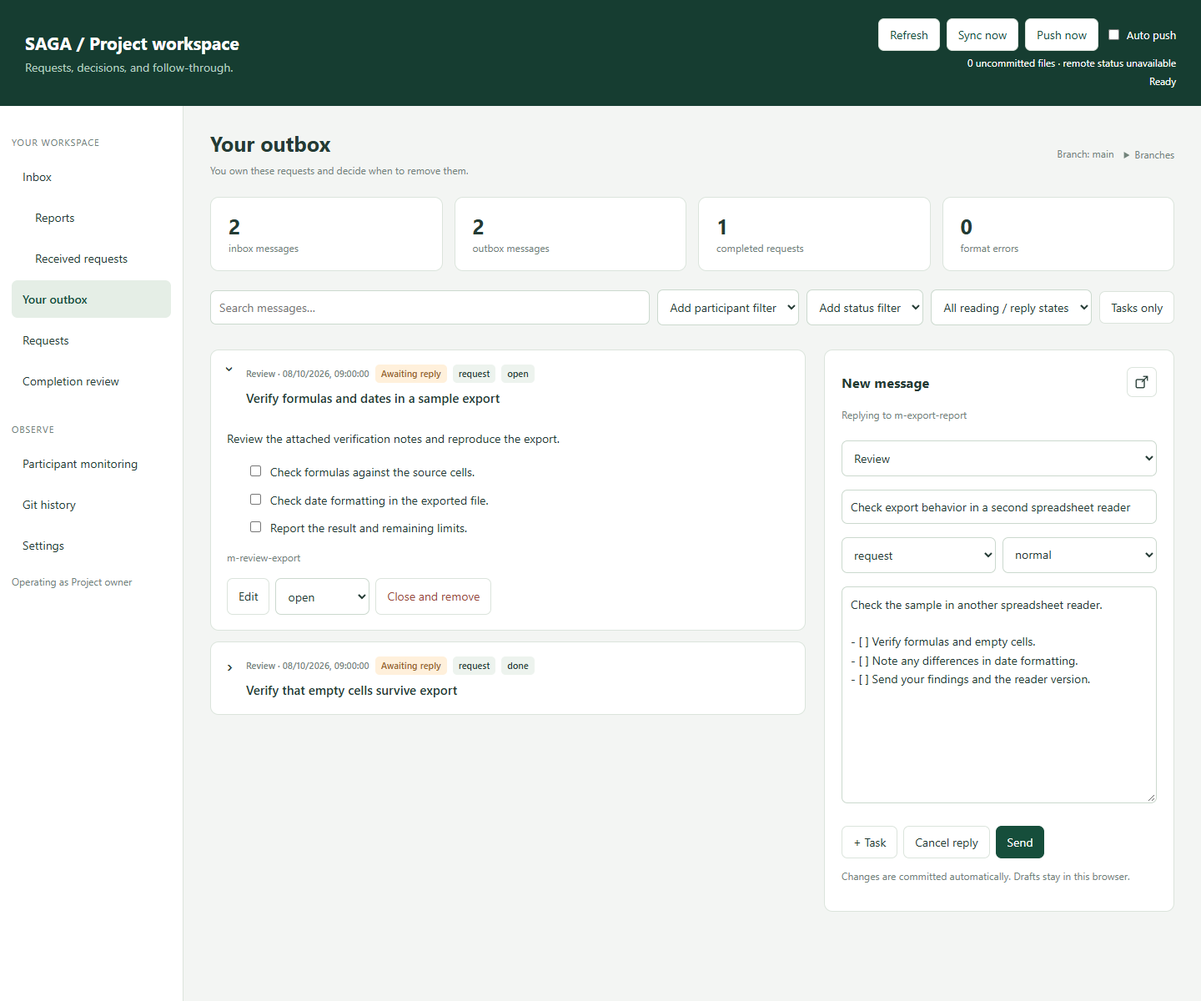
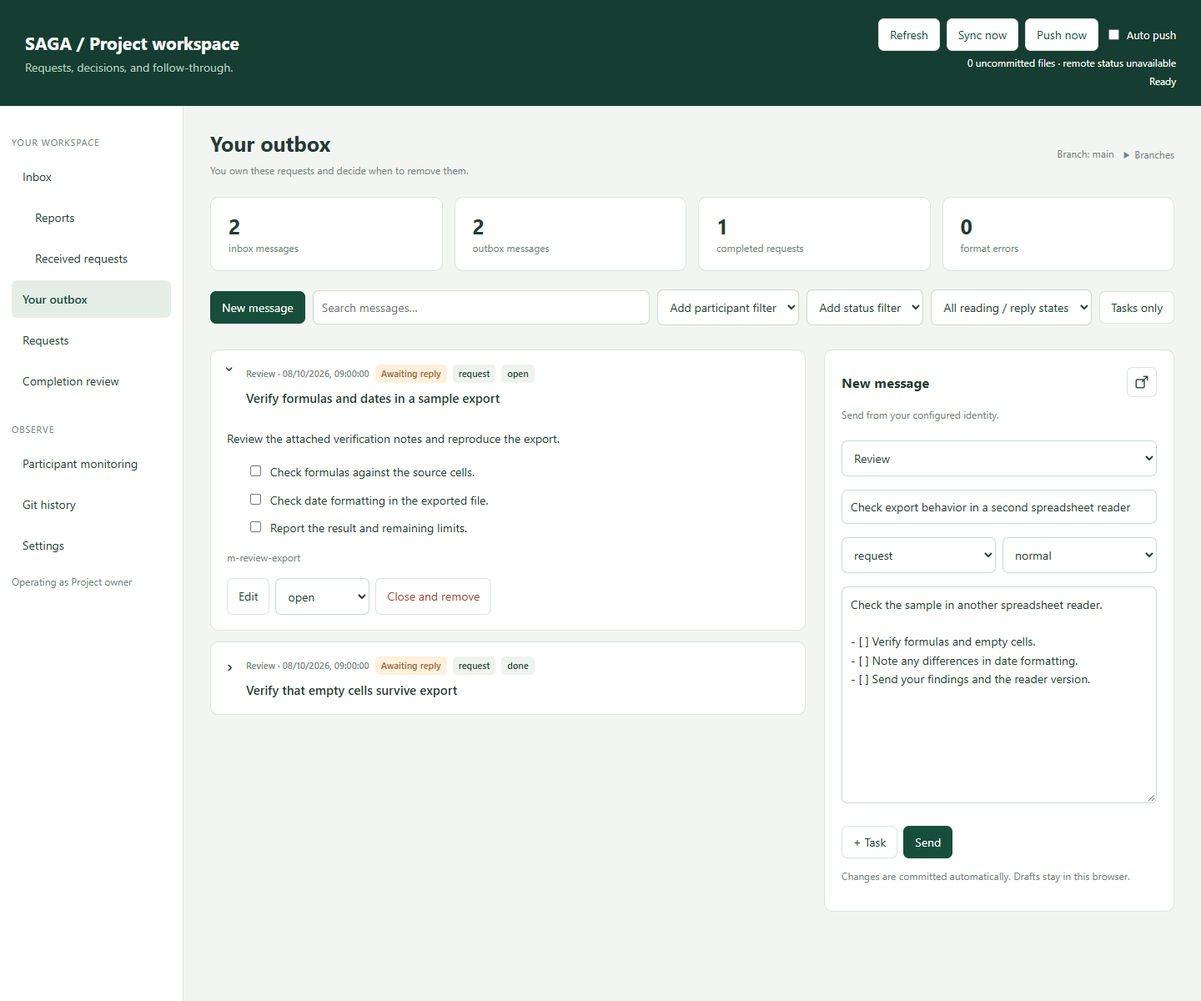
Add inline replies and nonblocking message publication

Changed region(s): [[0.75, 0.8017, 0.875, 0.8633], [0.1562, 0.2775, 0.2812, 0.3392], [0.7188, 0.4008, 0.8125, 0.4317]]

diff --git a/src/dashboard.html b/src/dashboard.html
@@ -15,7 +15,7 @@ header button{color:var(--ink)}
 <header><div><h1 id="workspace">SAGA</h1><p>Requests, decisions, and follow-through.</p></div><div class="header-controls"><div class="header-actions"><button id="refreshButton">Refresh</button><button id="syncButton">Sync now</button><button id="pushHeader">Push now</button><label id="gitControls" hidden><input id="autoPushHeader" type="checkbox"> Auto push</label></div><div id="gitStatus" class="sync" aria-live="polite"></div><div id="sync" class="sync" role="status">Connecting…</div></div></header>
 <div class="shell"><aside id="navigation"><p class="caption">Your workspace</p><button data-view="inbox">Inbox</button><button data-inbox="report" style="padding-left:28px">Reports</button><button data-inbox="requests" style="padding-left:28px">Received requests</button><button data-view="outbox">Your outbox</button><button data-view="requests">Requests</button><button data-view="approvals">Completion review</button><p class="caption" style="margin-top:28px">Observe</p><button data-view="monitor">Participant monitoring</button><button data-view="history">Git history</button><button data-view="settings">Settings</button><p class="hint" id="identity"></p></aside>
 <main><div class="heading"><div><h2 id="title">Inbox</h2><div class="muted" id="subtitle"></div></div><div class="branch-position"><span id="branch" class="muted"></span><details id="branchPanel"><summary id="branchSummary">Branches</summary><div class="branch-popover"><p class="hint" id="branchRefreshHint">Compared with your current inbox.</p><button id="checkBranches">Fetch and check branches</button><div id="branchList"></div></div></details></div></div><div id="notice" class="notice" role="alert"></div><div class="stats" id="stats"></div>
-<div class="toolbar" id="toolbar"><input id="search" placeholder="Search messages…" aria-label="Search"><select id="participant" aria-label="Filter participant"></select><select id="status" aria-label="Filter status"><option value="all">All statuses</option><option>untriaged</option><option>open</option><option>in_progress</option><option>waiting</option><option>blocked</option><option>done</option></select><select id="attention" aria-label="Filter reading and replies"><option value="all">All reading / reply states</option><option value="unread">Unread</option><option value="read">Read</option><option value="unanswered">Awaiting reply</option><option value="replied">Replied</option></select><button id="taskFilter">Tasks only</button><div id="filterTags" class="filter-tags"></div></div>
+<div class="toolbar" id="toolbar"><button id="newMessage" class="primary">New message</button><input id="search" placeholder="Search messages…" aria-label="Search"><select id="participant" aria-label="Filter participant"></select><select id="status" aria-label="Filter status"><option value="all">All statuses</option><option>untriaged</option><option>open</option><option>in_progress</option><option>waiting</option><option>blocked</option><option>done</option></select><select id="attention" aria-label="Filter reading and replies"><option value="all">All reading / reply states</option><option value="unread">Unread</option><option value="read">Read</option><option value="unanswered">Awaiting reply</option><option value="replied">Replied</option></select><button id="taskFilter">Tasks only</button><div id="filterTags" class="filter-tags"></div></div>
 <div class="columns" id="columns"><section id="feed"></section><section class="card compose" id="compose" inert><div id="composeHandle" class="compose-heading"><h3>New message</h3><button id="detachCompose" aria-label="Float composer" title="Float composer"><svg viewBox="0 0 24 24" width="18" height="18" aria-hidden="true" fill="none" stroke="currentColor" stroke-width="1.8"><rect x="3" y="8" width="13" height="13" rx="2"/><path d="M14 3h7v7M21 3l-9 9"/></svg></button></div><p class="hint" id="replyHint">Send from your configured identity.</p><select id="recipient" aria-label="Recipient"></select><input id="subject" placeholder="Subject" maxlength="200" aria-label="Subject"><div class="pair"><select id="kind" aria-label="Message kind"><option>request</option><option>question</option><option>decision</option><option>report</option><option>reply</option></select><select id="priority" aria-label="Priority"><option>normal</option><option>low</option><option>high</option><option>urgent</option></select></div><textarea id="message" placeholder="Write a message…&#10;&#10;- [ ] A task to follow" aria-label="Message body"></textarea><div class="actions"><button id="task">+ Task</button><button id="cancelReply" hidden>Cancel reply</button><button class="primary" id="send">Send</button></div><p class="hint" id="savePolicy"></p></section></div></main></div>
 <dialog id="fileViewer" aria-label="File preview"><div class="file-heading"><div><h3 id="fileTitle"></h3><span id="fileContext" class="hint"></span></div><button id="closeFile">Close preview</button></div><div id="fileContent" class="body"></div></dialog>
 <dialog id="editor"><h3>Edit your message</h3><p class="hint">Editing invalidates any completion receipt for an older version.</p><textarea id="editBody" aria-label="Edit message"></textarea><div class="actions"><button id="cancelEdit">Cancel</button><button id="saveEdit" class="primary">Save and commit</button></div></dialog>
@@ -25,7 +25,7 @@ header button{color:var(--ink)}
 <script src="/markdown.js"></script>
 <script src="/settings.js"></script>
 <script>
-const token='__TOKEN__', $=id=>document.getElementById(id);let state,view='inbox',busy=false,signature='',tasksOnly=false,replyTo=null,editing=null,confirmation=null,historyState=null,refreshTimer=null,pageIndex=0;const participantFilters=new Set(),statusFilters=new Set();let floating=false;
+const token='__TOKEN__', $=id=>document.getElementById(id);let state,view='inbox',busy=false,signature='',tasksOnly=false,replyTo=null,editing=null,confirmation=null,historyState=null,refreshTimer=null,pageIndex=0;const participantFilters=new Set(),statusFilters=new Set();let floating=false,composeOpen=false,sendQueue=Promise.resolve();const pendingReplies=new Set(),replyFeedback=new Map();
 const esc=s=>String(s).replace(/[&<>"']/g,c=>({'&':'&amp;','<':'&lt;','>':'&gt;','"':'&quot;',"'":'&#39;'}[c]));
 const label=id=>state.config.participants.find(p=>p.id===id)?.label||id;
 const inline=s=>esc(s).replace(/`([^`]+)`/g,'<code>$1</code>').replace(/\*\*([^*]+)\*\*/g,'<strong>$1</strong>');
@@ -40,7 +40,9 @@ function seenKey(context){return 'saga:seen:'+JSON.stringify([context.workspaceR
 function trackMessages(context){if(!context.config)return;const key=seenKey(context);try{messageRead=JSON.parse(localStorage.getItem(key+':read')||'{}');const stored=localStorage.getItem(key);messageSeen=stored?JSON.parse(stored):Object.fromEntries(context.messages.filter(r=>r.meta.to===context.config.identity).map(r=>[r.meta.id,r.sha256]));if(!stored)localStorage.setItem(key,JSON.stringify(messageSeen));}catch{messageSeen={};}}
 function hasReply(r){return state.messages.some(x=>x.meta.reply_to===r.meta.id&&x.meta.from===r.meta.to&&x.meta.to===r.meta.from&&x.meta.kind!=='receipt');}
 function isRead(r){return messageRead[r.meta.id]===r.sha256;}
-function messageCard(r,open=false,nested=false){const m=r.meta,own=m.from===state.config.identity,editable=own&&view!=='monitor',replies=nested?[]:state.messages.filter(x=>x.meta.reply_to===m.id&&x.meta.kind!=='receipt');return `<details class="card message-card" data-message-id="${esc(m.id)}" ${open?'open':''}><summary><div class="summary-content"><div class="meta-row"><span class="tag">${esc(nested||view==='monitor'?label(m.from)+' → '+label(m.to):view==='requests'?(own?'To '+label(m.to):'From '+label(m.from)):view==='inbox'?label(m.from):label(m.to))} · ${date(m.created)}</span>${m.to===state.config.identity&&messageSeen[m.id]!==r.sha256?'<span class="badge warn" data-unread>'+(messageSeen[m.id]?'Updated':'New')+'</span>':''}${m.to===state.config.identity?'<span class="badge" data-reading>'+ (isRead(r)?'Read':'Unread')+'</span>':''}${hasReply(r)?'<span class="badge" data-replied>Replied</span>':['request','question'].includes(m.kind)?'<span class="badge warn">Awaiting reply</span>':''}<span class="badge">${esc(m.kind)}</span><span class="badge">${esc(m.status.replaceAll('_',' '))}</span>${m.session?'<span class="badge">Session '+esc(m.session)+'</span>':''}${m.priority!=='normal'?'<span class="badge warn">'+esc(m.priority)+'</span>':''}</div><div class="message-title">${inline(m.title)}</div></div></summary><div class="body">${body(r.body,r,editable)}<p class="hint">${esc(m.id)}${m.reply_to?' · reply to '+esc(m.reply_to):''}</p><div class="actions">${editable?`<button data-edit="${esc(m.id)}">Edit</button><select data-status="${esc(m.id)}" aria-label="Message status">${['untriaged','open','in_progress','waiting','blocked','done'].map(s=>'<option '+(s===m.status?'selected':'')+'>'+s+'</option>').join('')}</select><button class="danger" data-close="${esc(m.id)}">Close and remove</button>`:m.to===state.config.identity&&view!=='monitor'?`<button data-reply="${esc(m.id)}">Reply</button>`:''}</div>${replies.length?'<div class="replies"><p class="caption">Replies</p>'+replies.map(x=>messageCard(x,false,true)).join('')+'</div>':''}</div></details>`;}
+function replyKey(id){return draftKey()+':reply:'+id;}
+function inlineReply(r){let text='';try{text=JSON.parse(localStorage.getItem(replyKey(r.meta.id))||'{}').text||'';}catch{}return '<form class="inline-reply" data-reply-form="'+esc(r.meta.id)+'"><label>Reply to '+esc(label(r.meta.from))+'<textarea aria-label="Reply to '+esc(r.meta.title)+'" style="display:block;width:100%;min-height:130px;resize:vertical;margin-top:8px">'+esc(text)+'</textarea></label><div class="actions"><button class="primary" type="submit" '+(pendingReplies.has(r.meta.id)?'disabled':'')+'>Send reply</button><button type="button" data-detach-reply="'+esc(r.meta.id)+'" aria-label="Detach reply" title="Detach reply">↗</button><span class="hint" data-send-status>'+esc(replyFeedback.get(r.meta.id)||'')+'</span></div></form>';}
+function messageCard(r,open=false,nested=false){const m=r.meta,own=m.from===state.config.identity,editable=own&&view!=='monitor',replies=nested?[]:state.messages.filter(x=>x.meta.reply_to===m.id&&x.meta.kind!=='receipt');return `<details class="card message-card" data-message-id="${esc(m.id)}" ${open?'open':''}><summary><div class="summary-content"><div class="meta-row"><span class="tag">${esc(nested||view==='monitor'?label(m.from)+' → '+label(m.to):view==='requests'?(own?'To '+label(m.to):'From '+label(m.from)):view==='inbox'?label(m.from):label(m.to))} · ${date(m.created)}</span>${m.to===state.config.identity&&messageSeen[m.id]!==r.sha256?'<span class="badge warn" data-unread>'+(messageSeen[m.id]?'Updated':'New')+'</span>':''}${m.to===state.config.identity?'<span class="badge" data-reading>'+ (isRead(r)?'Read':'Unread')+'</span>':''}${hasReply(r)?'<span class="badge" data-replied>Replied</span>':['request','question'].includes(m.kind)?'<span class="badge warn">Awaiting reply</span>':''}<span class="badge">${esc(m.kind)}</span><span class="badge">${esc(m.status.replaceAll('_',' '))}</span>${m.session?'<span class="badge">Session '+esc(m.session)+'</span>':''}${m.priority!=='normal'?'<span class="badge warn">'+esc(m.priority)+'</span>':''}</div><div class="message-title">${inline(m.title)}</div></div></summary><div class="body">${body(r.body,r,editable)}<p class="hint">${esc(m.id)}${m.reply_to?' · reply to '+esc(m.reply_to):''}</p><div class="actions">${editable?`<button data-edit="${esc(m.id)}">Edit</button><select data-status="${esc(m.id)}" aria-label="Message status">${['untriaged','open','in_progress','waiting','blocked','done'].map(s=>'<option '+(s===m.status?'selected':'')+'>'+s+'</option>').join('')}</select><button class="danger" data-close="${esc(m.id)}">Close and remove</button>`:m.to===state.config.identity&&view!=='monitor'?`<button data-reply="${esc(m.id)}">Reply</button>`:''}</div>${m.to===state.config.identity&&view!=='monitor'&&!nested?inlineReply(r):''}${replies.length?'<div class="replies"><p class="caption">Replies</p>'+replies.map(x=>messageCard(x,false,true)).join('')+'</div>':''}</div></details>`;}
 function matches(r){const q=$('search').value.toLowerCase();const person=view==='inbox'?r.meta.from:view==='outbox'?r.meta.to:view==='requests'?(r.meta.to===state.config.identity?r.meta.from:r.meta.to):null;const attention=$('attention').value;return (attention==='all'||attention==='read'&&r.meta.to===state.config.identity&&isRead(r)||attention==='unread'&&r.meta.to===state.config.identity&&!isRead(r)||attention==='replied'&&hasReply(r)||attention==='unanswered'&&['request','question'].includes(r.meta.kind)&&!hasReply(r))&&(!participantFilters.size||(person?participantFilters.has(person):[r.meta.from,r.meta.to].some(id=>participantFilters.has(id))))&&(!statusFilters.size||statusFilters.has(r.meta.status))&&(!tasksOnly||/^\s*(?:[-*+]|\d+[.)]) \[[ xX]\]/m.test(r.body))&&(r.meta.title+' '+r.body+' '+r.meta.id+' '+(r.meta.session||'')).toLowerCase().includes(q);}
 function renderFilters(){$('filterTags').innerHTML=[...participantFilters].map(id=>'<button data-filter="participant" data-value="'+esc(id)+'">'+esc(label(id))+' ×</button>').join('')+[...statusFilters].map(id=>'<button data-filter="status" data-value="'+esc(id)+'">'+esc(id.replaceAll('_',' '))+' ×</button>').join('')+((participantFilters.size||statusFilters.size)?'<button id="clearFilters">Clear filters</button>':'');}
 function renderBranches(){const list=[...(state.branches||[])].sort((a,b)=>Number(Boolean(b.isPrimary))-Number(Boolean(a.isPrimary))||((b.newMessages||0)+(b.updatedMessages||0))-((a.newMessages||0)+(a.updatedMessages||0))||a.name.localeCompare(b.name));const total=list.reduce((n,b)=>n+(b.newMessages||0)+(b.updatedMessages||0),0);$('branchSummary').textContent=total?total+' updates on other branches':'Branches';$('branchSummary').classList.toggle('has-updates',total>0);$('branchRefreshHint').textContent=state.branchRefresh?.error?'Refresh failed: '+state.branchRefresh.error:state.branchRefresh?.last?'Last remote check: '+new Date(state.branchRefresh.last).toLocaleString('en-GB'):'Remote results reflect the last fetch. Compared with your current inbox.';$('branchList').innerHTML=list.map(b=>'<div class="branch-row"><span><strong>'+esc(b.name)+'</strong> · '+(b.error?esc(b.error):b.newMessages+' new · '+b.updatedMessages+' updated')+'</span><button data-switch-branch="'+esc(b.ref)+'" '+(b.error?'disabled':'')+'>Switch</button></div>').join('')||'<p class="hint">No other discovered mailbox branches.</p>';}
@@ -54,7 +56,7 @@ function render(){
  choices('participant',c.participants,true);$('participant').options[0].textContent='Add participant filter';$('status').options[0].textContent='Add status filter';renderFilters();renderBranches();choices('recipient',c.participants.filter(p=>p.id!==me));const outgoing=state.messages.filter(r=>r.meta.from===me&&r.meta.kind!=='receipt'),incoming=state.messages.filter(r=>r.meta.to===me&&r.meta.kind!=='receipt'),ready=state.candidates.filter(r=>r.eligible);
  document.querySelector('[data-view="monitor"]').hidden=!c.showMonitoring;
  $('stats').innerHTML=[[incoming.length,'inbox messages'],[outgoing.length,'outbox messages'],[ready.length,'completed requests'],[state.errors.length,'format errors']].map(([n,t])=>`<div class="stat"><strong>${n}</strong><span class="muted">${t}</span></div>`).join('');
- const showCompose=['inbox','outbox','requests'].includes(view);$('compose').hidden=!showCompose;$('columns').classList.toggle('wide',!showCompose||floating);$('toolbar').hidden=!['inbox','outbox','requests','monitor'].includes(view);$('taskFilter').classList.toggle('primary',tasksOnly);
+ const showCompose=composeOpen&&['inbox','outbox','requests'].includes(view);$('compose').hidden=!showCompose;$('columns').classList.toggle('wide',!showCompose||floating);$('toolbar').hidden=!['inbox','outbox','requests','monitor'].includes(view);$('taskFilter').classList.toggle('primary',tasksOnly);
  if(state.errors.length)notice(state.errors.join('\n'));
  if(view==='settings'){$('feed').innerHTML=renderSettings(c);return;}
  if(view==='approvals'){$('feed').innerHTML='<p class="hint">Cleanup policy: '+esc(c.cleanup)+'. Each receipt includes the agent’s completion summary.</p>'+state.candidates.map(a=>`<details class="card" open><summary><span class="tag">${esc(label(a.receipt.meta.from))} · ${date(a.receipt.meta.created)}</span>${inline(a.request?.meta.title||a.receipt.meta.title)} <span class="badge ${a.eligible?'':'warn'}">${a.eligible?'Ready for cleanup':esc(a.reason)}</span></summary><div class="body"><p class="caption">Completion summary</p>${body(a.receipt.body)}${a.request?'<details><summary>Original request</summary>'+body(a.request.body)+'</details>':''}<div class="actions">${a.eligible&&c.cleanup!=='off'?'<button class="primary" data-approve="'+esc(a.receipt.meta.id)+'">Approve and clean up</button>':''}<button data-dismiss="${esc(a.receipt.meta.id)}">Dismiss receipt</button></div></div></details>`).join('');if(!state.candidates.length)$('feed').innerHTML+='<div class="card empty">No completion receipts yet.</div>';return;}
@@ -64,7 +66,7 @@ function render(){
  $('feed').innerHTML=records.slice(pageIndex*c.pageSize,(pageIndex+1)*c.pageSize).map((r,i)=>messageCard(r,i<c.defaultExpanded)).join('')+(records.length>c.pageSize?'<div class="actions"><button id="previousPage" '+(pageIndex===0?'disabled':'')+'>Previous</button><span class="hint">Page '+(pageIndex+1)+' of '+pages+' · '+records.length+' messages</span><button id="nextPage" '+(pageIndex===pages-1?'disabled':'')+'>Next</button></div>':'');if(!$('feed').innerHTML)$('feed').innerHTML='<div class="card empty">No messages match this view.</div>';
 }
 function renderHistory(){if(!historyState){$('feed').innerHTML='<div class="card empty">Loading history…</div>';return;}$('feed').innerHTML=historyState.commits.map(c=>`<section class="card panel"><span class="tag">${date(c.date)} · ${esc(c.commit.slice(0,8))}</span><strong>${esc(c.title)}</strong>${c.files.map(f=>`<p class="hint">${esc(f)}</p><button data-history="${esc(c.commit)}" data-file="${esc(f)}" data-before="true">Before</button> <button data-history="${esc(c.commit)}" data-file="${esc(f)}">After</button>`).join('')}<pre id="snapshot-${esc(c.commit)}" hidden></pre></section>`).join('')||'<div class="card empty">No structured mailbox history yet.</div>';}
-async function refresh(force=false){try{const next=await api('state');const status=next.sync||{message:'Choose a repository'};$('sync').textContent=status.message+(status.last?' · '+new Date(status.last).toLocaleTimeString('en-GB'):'');$('sync').classList.toggle('error',status.state==='error');const key=next.setupRequired?JSON.stringify(next):JSON.stringify([next.branchRefresh,next.branches,next.git,next.publicationHold,next.configVersion,next.messages.map(r=>r.sha256),next.errors]);const changedIdentity=state?.config?.identity!==next.config?.identity,changedContext=state?.workspaceRoot!==next.workspaceRoot||state?.branch!==next.branch;trackMessages(next);state=next;if(changedIdentity&&next.config){$('kind').value=next.config.defaultKind;$('priority').value=next.config.defaultPriority;pageIndex=0;}if(force||key!==signature){signature=key;render();}if(next.config&&(changedIdentity||changedContext))loadDraft();}catch(e){notice(e.message);}finally{scheduleRefresh();}}
+async function refresh(force=false){try{const next=await api('state');const status=next.sync||{message:'Choose a repository'};$('sync').textContent=status.message+(status.last?' · '+new Date(status.last).toLocaleTimeString('en-GB'):'');$('sync').classList.toggle('error',status.state==='error');const key=next.setupRequired?JSON.stringify(next):JSON.stringify([next.branchRefresh,next.branches,next.git,next.publicationHold,next.configVersion,next.messages.map(r=>r.sha256),next.errors]);const changedIdentity=state?.config?.identity!==next.config?.identity,changedContext=state?.workspaceRoot!==next.workspaceRoot||state?.branch!==next.branch;trackMessages(next);state=next;if(changedIdentity&&next.config){$('kind').value=next.config.defaultKind;$('priority').value=next.config.defaultPriority;pageIndex=0;}if((force||key!==signature)&&!pendingReplies.size&&!document.activeElement?.closest('.inline-reply')){signature=key;render();}if(next.config&&(changedIdentity||changedContext))loadDraft();}catch(e){notice(e.message);}finally{scheduleRefresh();}}
 function scheduleRefresh(){clearTimeout(refreshTimer);if(state?.config?.refreshSeconds>0)refreshTimer=setTimeout(()=>{if(!busy)refresh();else scheduleRefresh();},state.config.refreshSeconds*1000);}
 async function mutate(route,data){if(busy)return false;busy=true;$('send').disabled=true;notice('');try{const result=await api(route,data);historyState=null;if(result.sync?.state==='error')notice('Saved locally. Synchronization failed: '+result.sync.message);return true;}catch(e){notice(e.message);return false;}finally{busy=false;$('send').disabled=false;await refresh(true);}}
 function confirmAction(title,text,fn){confirmation=fn;$('confirmTitle').textContent=title;$('confirmText').textContent=text;$('confirmation').showModal();}
@@ -76,7 +78,7 @@ $('filterTags').onclick=e=>{const b=e.target.closest('button');if(!b)return;if(b
 $('checkBranches').onclick=async()=>{if(busy)return;$('checkBranches').disabled=true;try{await api('branches',{fetch:true});await refresh(true);}catch(e){notice(e.message);}finally{$('checkBranches').disabled=false;}};
 document.addEventListener('click',e=>{if(!$('branchPanel').contains(e.target))$('branchPanel').open=false;});
 $('branchList').onclick=e=>{const b=e.target.closest('[data-switch-branch]');if(!b)return;confirmAction('Switch branch?','Files must be committed and pending dashboard commits published. Your draft stays attached to the current branch.',async()=>{saveDraft();if(await mutate('branch',{ref:b.dataset.switchBranch})){participantFilters.clear();statusFilters.clear();render();}});};
-$('detachCompose').onclick=()=>{floating=!floating;$('compose').classList.toggle('floating',floating);$('detachCompose').innerHTML=floating?"<svg viewBox=\"0 0 24 24\" width=\"18\" height=\"18\" aria-hidden=\"true\" fill=\"none\" stroke=\"currentColor\" stroke-width=\"1.8\"><rect x=\"3\" y=\"3\" width=\"18\" height=\"18\" rx=\"2\"/><path d=\"M14 3v18m-6-9h5m-3-3 3 3-3 3\"/></svg>":"<svg viewBox=\"0 0 24 24\" width=\"18\" height=\"18\" aria-hidden=\"true\" fill=\"none\" stroke=\"currentColor\" stroke-width=\"1.8\"><rect x=\"3\" y=\"8\" width=\"13\" height=\"13\" rx=\"2\"/><path d=\"M14 3h7v7M21 3l-9 9\"/></svg>";$('columns').classList.toggle('wide',floating||!['inbox','outbox','requests'].includes(view));$('detachCompose').setAttribute('aria-label',floating?'Dock composer':'Float composer');$('detachCompose').title=floating?'Dock composer':'Float composer';if(!floating){$('compose').style.left='';$('compose').style.top='';$('compose').style.width='';$('compose').style.height='';}};
+$('detachCompose').onclick=()=>{floating=!floating;$('compose').classList.toggle('floating',floating);$('detachCompose').innerHTML=floating?"<svg viewBox=\"0 0 24 24\" width=\"18\" height=\"18\" aria-hidden=\"true\" fill=\"none\" stroke=\"currentColor\" stroke-width=\"1.8\"><rect x=\"3\" y=\"3\" width=\"18\" height=\"18\" rx=\"2\"/><path d=\"M14 3v18m-6-9h5m-3-3 3 3-3 3\"/></svg>":"<svg viewBox=\"0 0 24 24\" width=\"18\" height=\"18\" aria-hidden=\"true\" fill=\"none\" stroke=\"currentColor\" stroke-width=\"1.8\"><rect x=\"3\" y=\"8\" width=\"13\" height=\"13\" rx=\"2\"/><path d=\"M14 3h7v7M21 3l-9 9\"/></svg>";$('columns').classList.toggle('wide',floating||!composeOpen||!['inbox','outbox','requests'].includes(view));$('detachCompose').setAttribute('aria-label',floating?'Dock composer':'Float composer');$('detachCompose').title=floating?'Dock composer':'Float composer';if(!floating){$('compose').style.left='';$('compose').style.top='';$('compose').style.width='';$('compose').style.height='';}};
 let drag;
 $('composeHandle').onpointerdown=e=>{if(!floating||e.target.closest('button')||e.button!==0)return;const box=$('compose').getBoundingClientRect();drag={x:e.clientX-box.left,y:e.clientY-box.top};$('composeHandle').setPointerCapture(e.pointerId);e.preventDefault();};
 $('composeHandle').onpointermove=e=>{if(!drag)return;const box=$('compose').getBoundingClientRect();$('compose').style.left=Math.max(0,Math.min(innerWidth-Math.min(box.width,innerWidth),e.clientX-drag.x))+'px';$('compose').style.top=Math.max(0,Math.min(innerHeight-50,e.clientY-drag.y))+'px';};
@@ -89,13 +91,19 @@ function saveDraft(){if(state?.config)localStorage.setItem(draftKey(),JSON.strin
 $('task').onclick=()=>{$('message').value+=($('message').value?'\n':'')+'- [ ] ';saveDraft();$('message').focus();};
 function clearReply(){replyTo=null;$('replyHint').textContent='Send from your configured identity.';$('cancelReply').hidden=true;}
 $('cancelReply').onclick=()=>{clearReply();saveDraft();};
-$('send').onclick=async()=>{const draft={text:$('message').value,title:$('subject').value,to:$('recipient').value,kind:$('kind').value,priority:$('priority').value,replyTo};saveDraft();const key=draftKey();localStorage.setItem(key+':last-send',JSON.stringify({...draft,savedAt:new Date().toISOString()}));const f=state.messages.find(r=>r.meta.from===state.config.identity&&r.meta.kind!=='receipt');if(await mutate('message',{to:draft.to,title:draft.title,text:draft.text,kind:draft.kind,priority:draft.priority,reply_to:draft.replyTo,version:f?.fileVersion??state.outboxVersion??null})){if($('message').value===draft.text&&$('subject').value===draft.title){$('message').value='';$('subject').value='';clearReply();localStorage.removeItem(key);}notice(state.config.autoPush?(state.git?.ahead===0?'Message published.':state.sync.state==='error'?'Message committed locally; automatic publication failed: '+state.sync.message:state.sync.message):state.config.autoCommit?'Message committed locally. Automatic push is off.':'Message saved to your outbox. Commit and push it to publish.');}};
+function savedNotice(){return state.config.autoPush||(state.config.autoPull&&state.config.syncAfterWrite)?'Saved locally. Git synchronization continues in the background.':'Saved locally. Automatic push is off.';}
+function queueMessage(draft,onSaved,onError){const context={root:state.workspaceRoot,branch:state.branch,identity:state.config.identity};const job=sendQueue.then(async()=>{const current=await api('state');if(current.workspaceRoot!==context.root||current.branch!==context.branch||current.config.identity!==context.identity)throw Error('Workspace changed. Your draft is preserved.');const result=await api('message',{to:draft.to,title:draft.title,text:draft.text,kind:draft.kind,priority:draft.priority,reply_to:draft.replyTo,version:current.outboxVersion,background:true});onSaved(result);if(result.sync?.state==='pending'){$('sync').textContent=result.sync.message;$('sync').classList.remove('error');}historyState=null;refresh();});sendQueue=job.catch(e=>{onError(e);});return job;}
+$('newMessage').onclick=()=>{composeOpen=true;render();$('message').focus();};
+$('send').onclick=()=>{const draft={text:$('message').value,title:$('subject').value,to:$('recipient').value,kind:$('kind').value,priority:$('priority').value,replyTo};if(!draft.text.trim()||!draft.title.trim()){notice('Add a subject and message.');return;}saveDraft();const key=draftKey();localStorage.setItem(key+':last-send',JSON.stringify({...draft,savedAt:new Date().toISOString()}));$('send').disabled=true;notice('Sending. You can continue writing replies.');queueMessage(draft,()=>{if($('message').value===draft.text&&$('subject').value===draft.title){$('message').value='';$('subject').value='';if(draft.replyTo){try{if(JSON.parse(localStorage.getItem(replyKey(draft.replyTo))||'{}').text===draft.text)localStorage.removeItem(replyKey(draft.replyTo));}catch{}}clearReply();localStorage.removeItem(key);}$('send').disabled=false;notice(savedNotice());},e=>{$('send').disabled=false;notice(e.message+' Your draft is preserved.');});};
+$('feed').addEventListener('input',e=>{const form=e.target.closest('[data-reply-form]');if(form)localStorage.setItem(replyKey(form.dataset.replyForm),JSON.stringify({text:form.querySelector('textarea').value}));});
+$('feed').addEventListener('submit',e=>{const form=e.target.closest('[data-reply-form]');if(!form)return;e.preventDefault();const r=state.messages.find(r=>r.meta.id===form.dataset.replyForm),field=form.querySelector('textarea'),button=form.querySelector('[type=submit]'),status=form.querySelector('[data-send-status]'),text=field.value;if(!text.trim()||button.disabled||pendingReplies.has(r.meta.id))return;pendingReplies.add(r.meta.id);const key=replyKey(r.meta.id);localStorage.setItem(key,JSON.stringify({text}));localStorage.setItem(key+':last-send',JSON.stringify({text,savedAt:new Date().toISOString()}));button.disabled=true;replyFeedback.set(r.meta.id,'Queued for sending…');status.textContent='Queued for sending…';queueMessage({text,title:('Re: '+r.meta.title).slice(0,200),to:r.meta.from,kind:'reply',priority:'normal',replyTo:r.meta.id},()=>{pendingReplies.delete(r.meta.id);button.disabled=false;if(field.value===text)field.value='';try{if(JSON.parse(localStorage.getItem(key)||'{}').text===text)localStorage.removeItem(key);}catch{}const live=document.querySelector('[data-reply-form="'+CSS.escape(r.meta.id)+'"]');if(live){live.querySelector('[type=submit]').disabled=false;if(live.querySelector('textarea').value===text)live.querySelector('textarea').value='';live.querySelector('[data-send-status]').textContent=savedNotice();}replyFeedback.set(r.meta.id,savedNotice());status.textContent=savedNotice();},err=>{pendingReplies.delete(r.meta.id);button.disabled=false;replyFeedback.set(r.meta.id,err.message+' Draft preserved.');status.textContent=err.message+' Draft preserved.';const live=document.querySelector('[data-reply-form="'+CSS.escape(r.meta.id)+'"]');if(live){live.querySelector('[type=submit]').disabled=false;live.querySelector('[data-send-status]').textContent=replyFeedback.get(r.meta.id);}});});
 
 $('feed').addEventListener('click',e=>{const summary=e.target.closest('.message-card > summary')||(e.target.closest('[data-reply]')?.closest('.message-card')?.querySelector(':scope > summary'));const card=summary?.parentElement;if(!card)return;const record=state.messages.find(r=>r.meta.id===card.dataset.messageId);if(!record||record.meta.to!==state.config.identity)return;messageRead[record.meta.id]=record.sha256;localStorage.setItem(seenKey(state)+':read',JSON.stringify(messageRead));summary.querySelector('[data-reading]').textContent='Read';messageSeen[record.meta.id]=record.sha256;localStorage.setItem(seenKey(state),JSON.stringify(messageSeen));card.querySelector(':scope > summary [data-unread]')?.remove();},true);
 $('feed').onclick=async e=>{const b=e.target.closest('button');if(!b)return;
+ if(b.dataset.detachReply){const r=state.messages.find(r=>r.meta.id===b.dataset.detachReply),form=b.closest('[data-reply-form]');if($('message').value.trim()||$('subject').value.trim()){notice('Save or send the current composer draft before detaching another reply.');return;}composeOpen=true;render();replyTo=r.meta.id;$('recipient').value=r.meta.from;$('subject').value=('Re: '+r.meta.title).slice(0,200);$('kind').value='reply';$('message').value=form.querySelector('textarea').value;$('replyHint').textContent='Replying to '+r.meta.title;$('cancelReply').hidden=false;saveDraft();if(!floating)$('detachCompose').click();$('message').focus();return;}
  if(b.dataset.edit){editing=state.messages.find(r=>r.meta.id===b.dataset.edit);$('editBody').value=editing.body;$('editor').showModal();}
  if(b.dataset.close){const r=state.messages.find(r=>r.meta.id===b.dataset.close);confirmAction('Close and remove this message?','The message will leave your outbox. Git keeps its history. No recipient receipt is required for this owner action.',()=>mutate('update',{id:r.meta.id,sha256:r.sha256,delete:true}));}
- if(b.dataset.reply){const r=state.messages.find(r=>r.meta.id===b.dataset.reply);replyTo=r.meta.id;$('recipient').value=r.meta.from;$('subject').value='Re: '+r.meta.title;$('kind').value='reply';$('replyHint').textContent='Replying to '+r.meta.id;$('cancelReply').hidden=false;saveDraft();$('message').focus();}
+ if(b.dataset.reply){const form=b.closest('.message-card').querySelector('[data-reply-form]');if(form){form.querySelector('textarea').focus();return;}composeOpen=true;render();const r=state.messages.find(r=>r.meta.id===b.dataset.reply);replyTo=r.meta.id;$('recipient').value=r.meta.from;$('subject').value='Re: '+r.meta.title;$('kind').value='reply';$('replyHint').textContent='Replying to '+r.meta.id;$('cancelReply').hidden=false;saveDraft();$('message').focus();}
  if(b.dataset.approve){const a=state.candidates.find(c=>c.receipt.meta.id===b.dataset.approve);const fn=()=>mutate('cleanup',{receiptIds:[a.receipt.meta.id],expected:{[a.receipt.meta.id]:a.request.sha256}});if(state.config.confirmCleanup)confirmAction('Approve completion and clean up?','This removes your request and consumes its matching completion receipts.',fn);else fn();}
  if(b.dataset.dismiss){const r=state.candidates.find(c=>c.receipt.meta.id===b.dataset.dismiss).receipt;const fn=()=>mutate('receipt-dismiss',{id:r.meta.id,sha256:r.sha256});if(state.config.confirmCleanup)confirmAction('Dismiss this receipt?','Only the receipt is removed. The original request stays in its owner’s outbox.',fn);else fn();}
  if(b.id==='previousPage'){pageIndex--;render();}if(b.id==='nextPage'){pageIndex++;render();}

diff --git a/README.md b/README.md
@@ -130,7 +130,7 @@ A repository Markdown link opens a read-only preview without leaving the dashboa
 
 ### Reply to a report
 
-Click **Reply** on the report. The composer selects the sender and links the answer to that message; write your response and choose **Send**. Your reply appears in **Your outbox**, while the recipient receives it through their next synchronized inbox read. You can keep the report visible while writing, or detach the composer with its expand-window icon.
+Write in the reply field directly under the report and choose **Send reply**. The recipient and original message are linked automatically. The detach icon opens that reply in a movable composer; **New message** opens a composer for a separate conversation. Your reply appears in **Your outbox**, while the recipient receives it through their next synchronized inbox read. You can keep the report visible while writing, or detach the composer with its expand-window icon.
 
 ![Reply to the researcher alongside their report](docs/screenshots/reply.png)
 
@@ -200,7 +200,7 @@ Identity, participant IDs/labels/aliases, mailbox directory, and monitoring visi
 
 **Refresh** only rereads files. **Sync now** follows your configured pull/push switches. Settings also offers explicit **Pull now** and **Push pending commits** actions. Automatic cleanup requires automatic commits so its history is retained. With manual commits, SAGA saves edits to disk and leaves committing to you.
 
-Git operations stop for staged work, dirty files, mismatched branches, or divergence. SAGA does not stash, reset, merge, or rebase automatically. Automatic push publishes after each dashboard save, including the configuration commit that enables it, regardless of the after-write pull switch. The save response waits for that publication attempt and reports any failure without losing the saved message. A push publishes all ahead commits on that branch. Publication holds in local Git config (`saga.publicationHold`, with compatibility for `dashboard.publicationHold`) remain effective independently of UI settings. Pending publication is tied to its originating branch.
+Git operations stop for staged work, dirty files, mismatched branches, or divergence. SAGA does not stash, reset, merge, or rebase automatically. Automatic push publishes after each dashboard save, including the configuration commit that enables it, regardless of the after-write pull switch. Message sends acknowledge their local save before Git publication, which continues in the background. Other writes wait for their publication attempt. Sync status reports failures separately from local persistence. A push publishes all ahead commits on that branch. Publication holds in local Git config (`saga.publicationHold`, with compatibility for `dashboard.publicationHold`) remain effective independently of UI settings. Pending publication is tied to its originating branch.
 
 ## Agent skill
 
@@ -232,7 +232,7 @@ Message bodies use standard Markdown paragraphs: soft line wrapping is ignored v
 
 Inbox cards show the sender; outbox cards show the recipient. Participant monitoring keeps both sides. Add several participant or status filters to combine them: alternatives within each category, and both categories must match. Remove individual filter chips or choose Clear filters.
 
-The composer stays alongside your inbox. Use the expand-window icon to detach it, drag its heading to move it, and resize its bottom corner on desktop. Use the dock-panel icon to restore the side panel. While it floats, the message list takes the full available width. Drafts are stored separately for each repository, branch, and operator. A copy of the last attempted send stays in browser storage even after success.
+Replies have independent inline drafts under incoming messages. You can write the next reply while an earlier send is queued or syncing; refresh does not replace a reply form you are using. Sends are serialized and recheck the current outbox version before saving. Drafts remain in browser storage until the server confirms saving; failed or interrupted sends preserve the text for review, without an automatic retry that could duplicate a message. **New message** opens the standalone composer alongside your inbox. Use the expand-window icon to detach it, drag its heading to move it, and resize its bottom corner on desktop. Use the dock-panel icon to restore the side panel. While it floats, the message list takes the full available width. Drafts are stored separately for each repository, branch, and operator. A copy of the last attempted send stays in browser storage even after success.
 
 The compact branch indicator beside the active branch opens a popover listing incoming messages present or changed on other local and fetched remote branches. Fetch and check branches refreshes remote references. Automatic branch fetch runs at startup and at the configurable interval; disable it or adjust its interval in Settings. Fetch prunes deleted remote references, and local branches whose upstream has disappeared are hidden from the list without deleting local work. No branch names need to be configured; discovery can also be disabled. Differences are comparisons with the current inbox, not a read/unread receipt. Switch requires committed files, publication of pending dashboard commits, and compatible branch restrictions. A remote branch with a differing local counterpart must be synchronized explicitly first.
 
